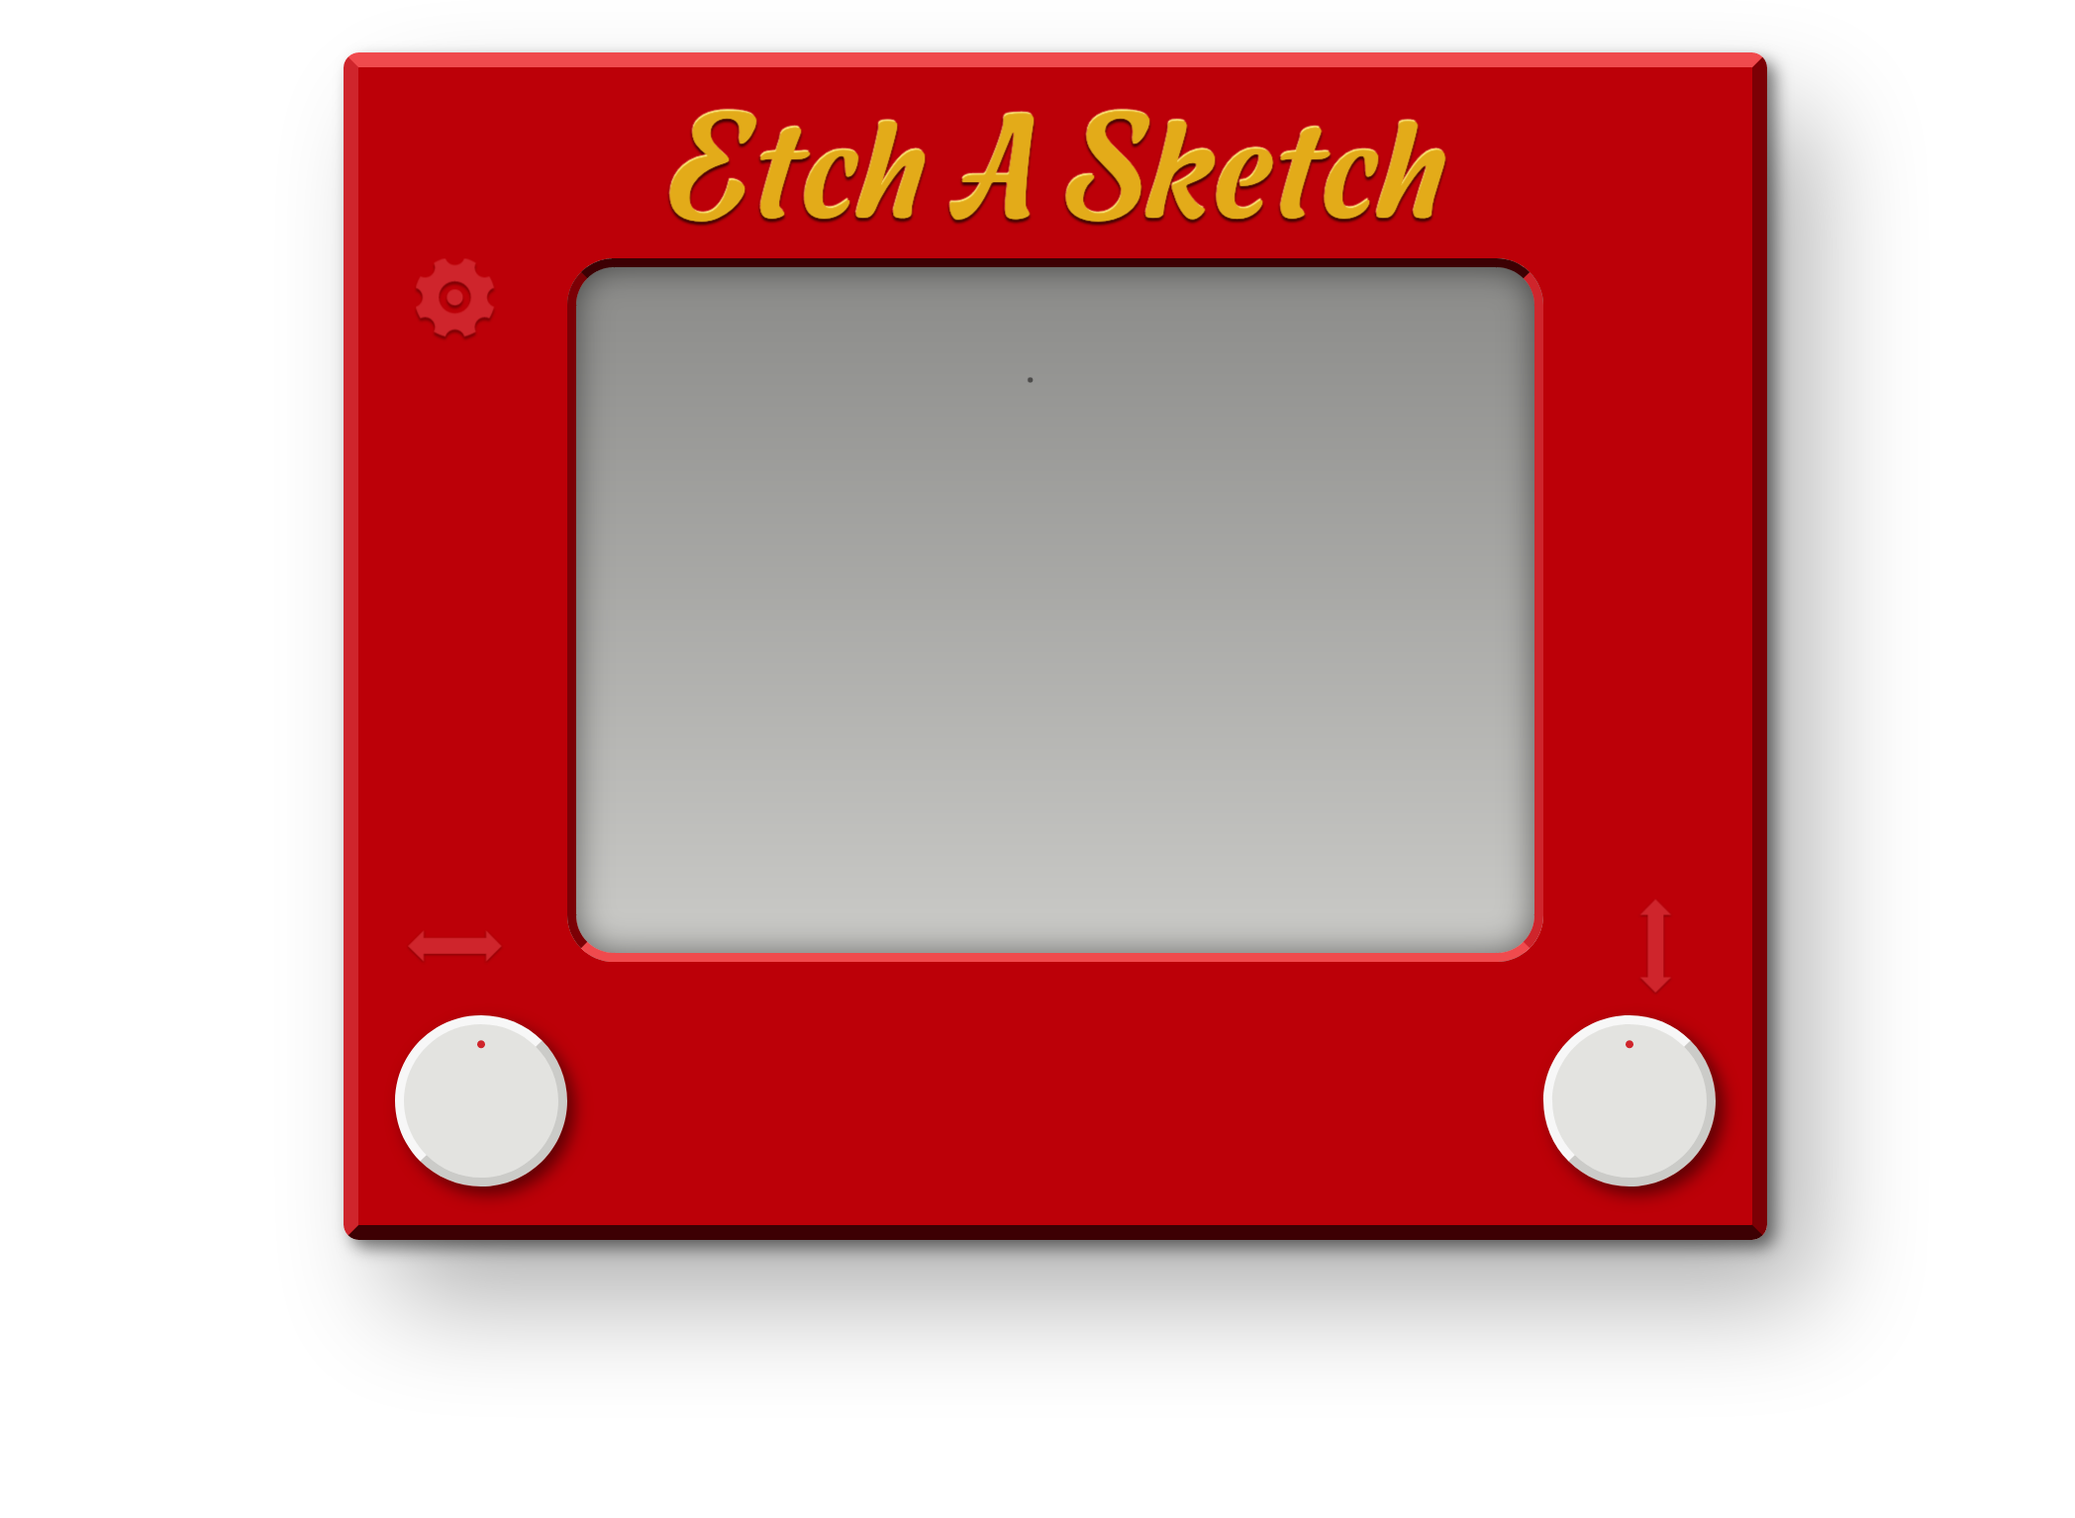
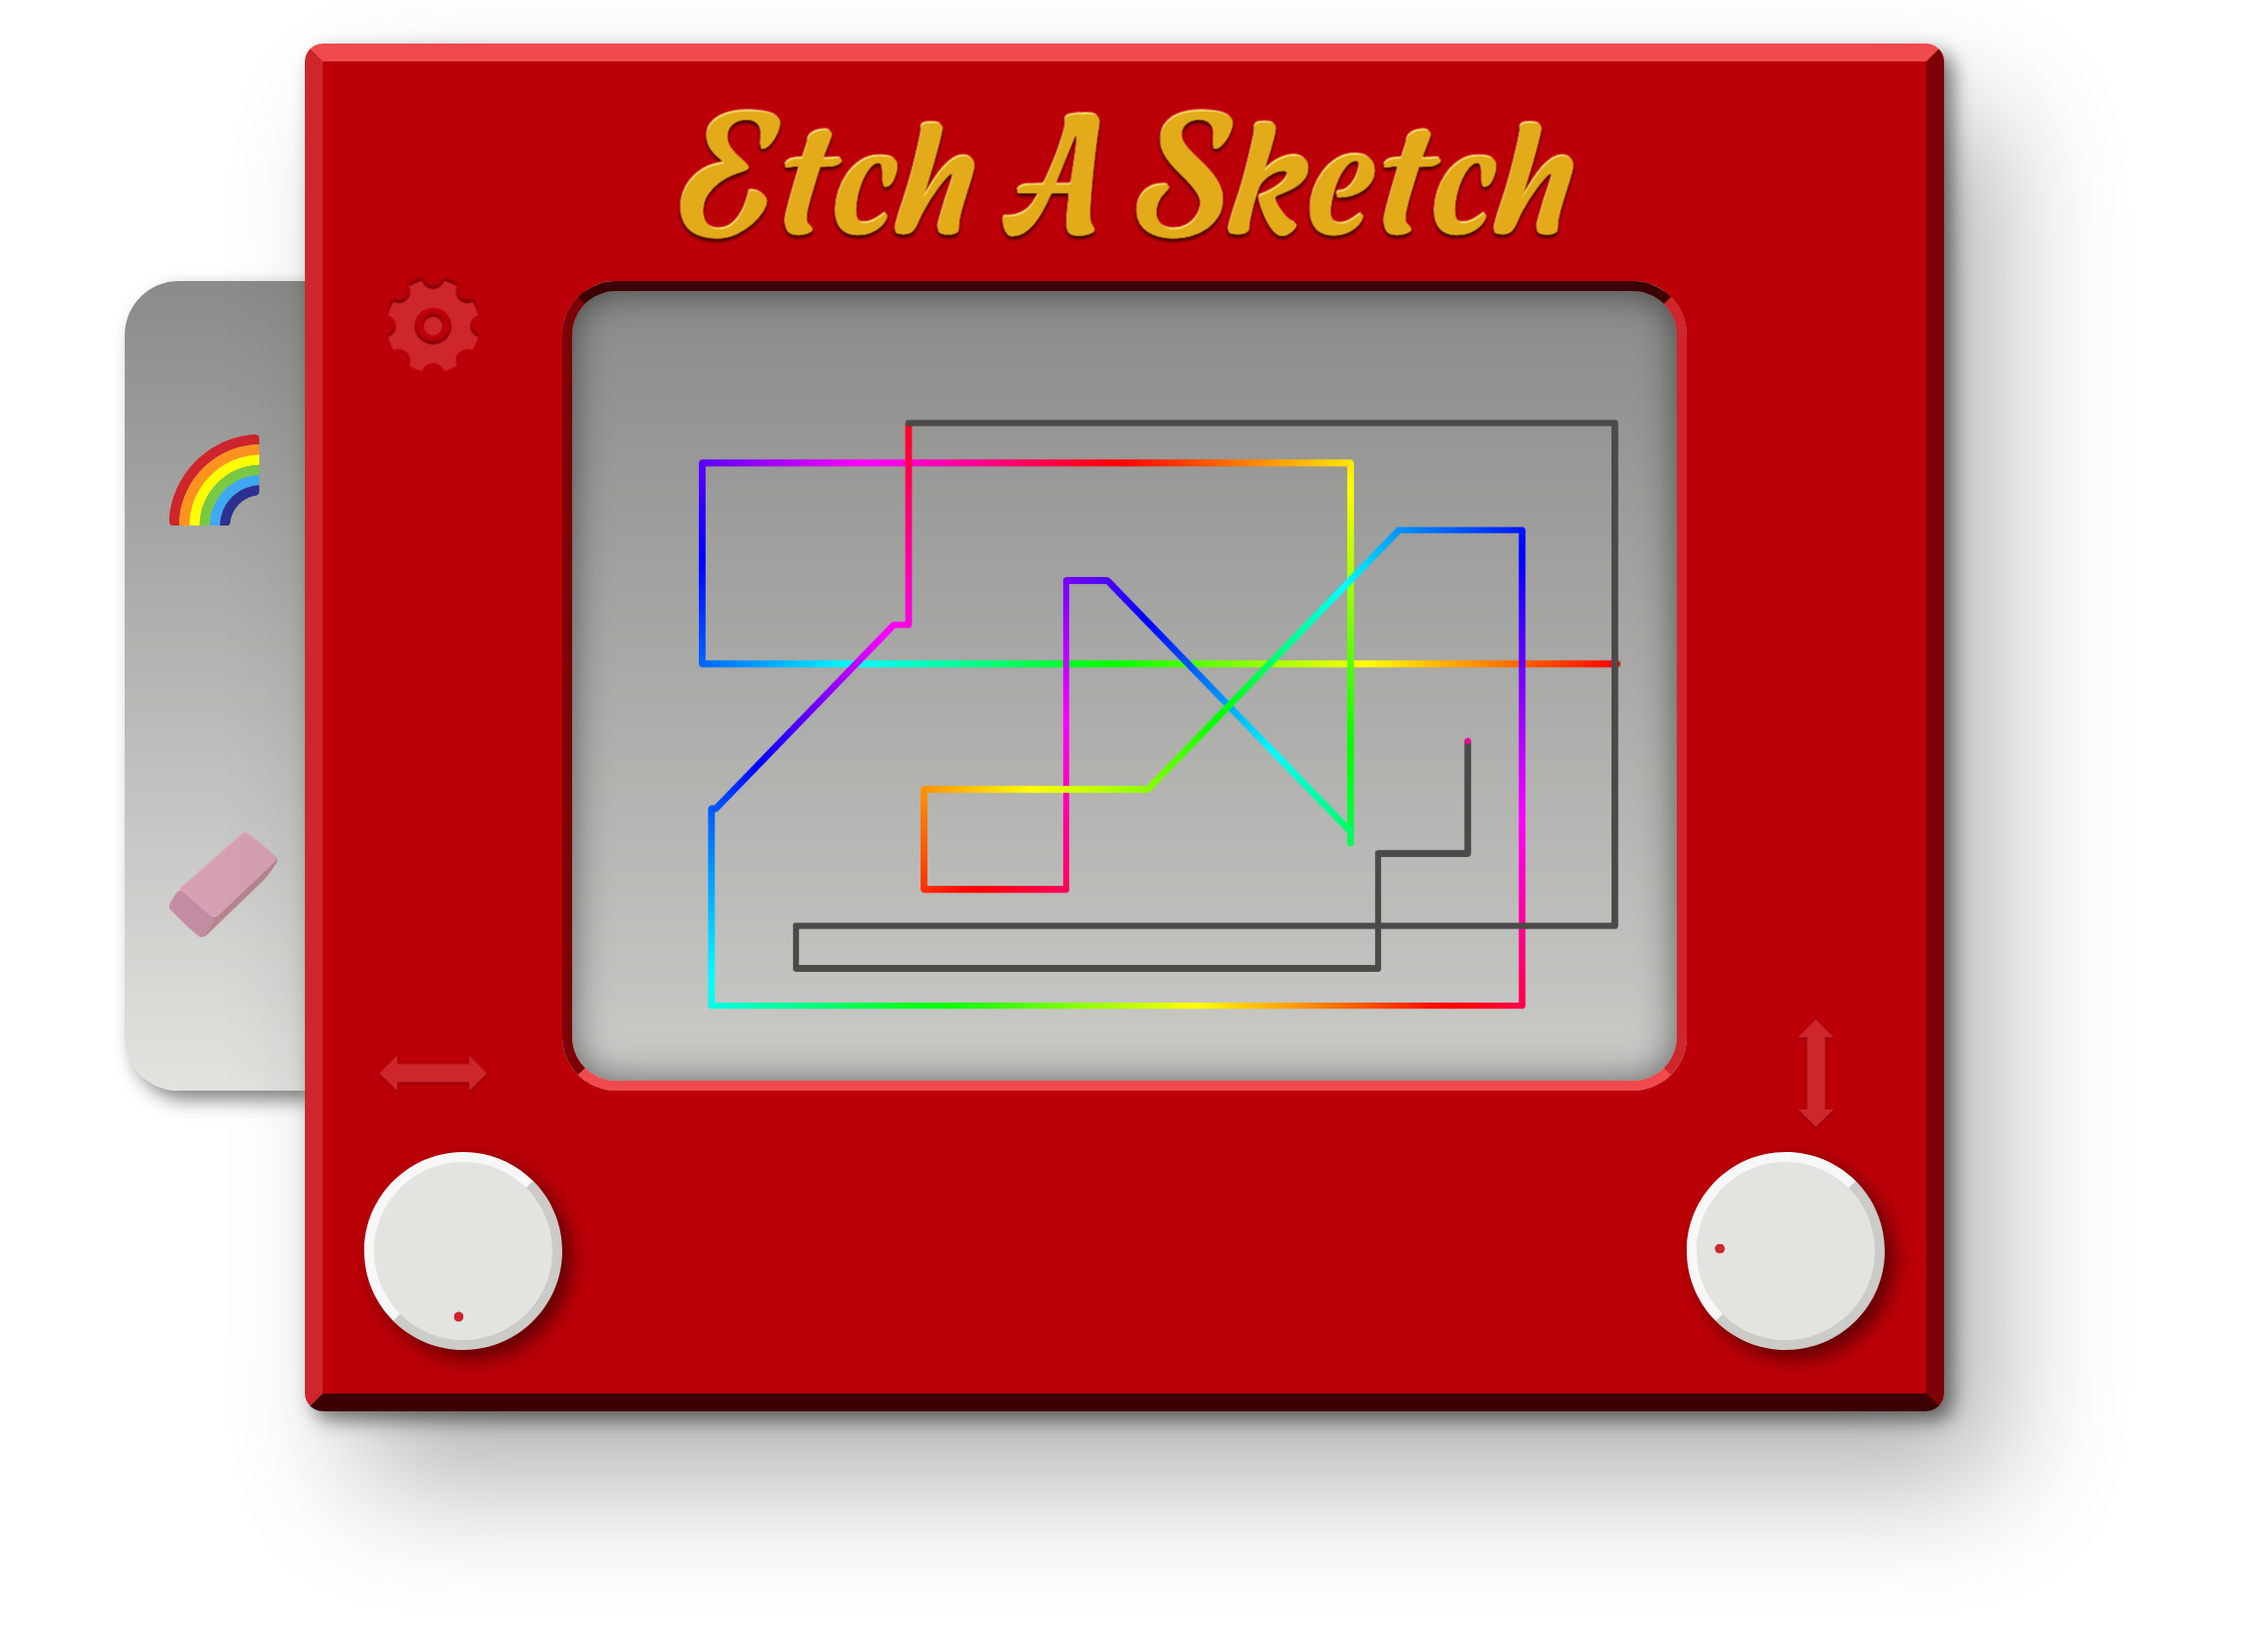
Change picture and edit readme

Changed region(s): [[0.031, 0.0, 0.8993, 0.9498]]

diff --git a/README.md b/README.md
@@ -8,8 +8,11 @@ Nostalgic mini app of everyone's favorite childhood toy.
 
 ![Etch a Sketch](public/main.png)
 
-- Change stylus color
-- Erase screen
+- Stylus
+  - Gray
+  - Rainbow
+- Speed (Coming soon)
+- Eraser
 
 ## Built With
 
